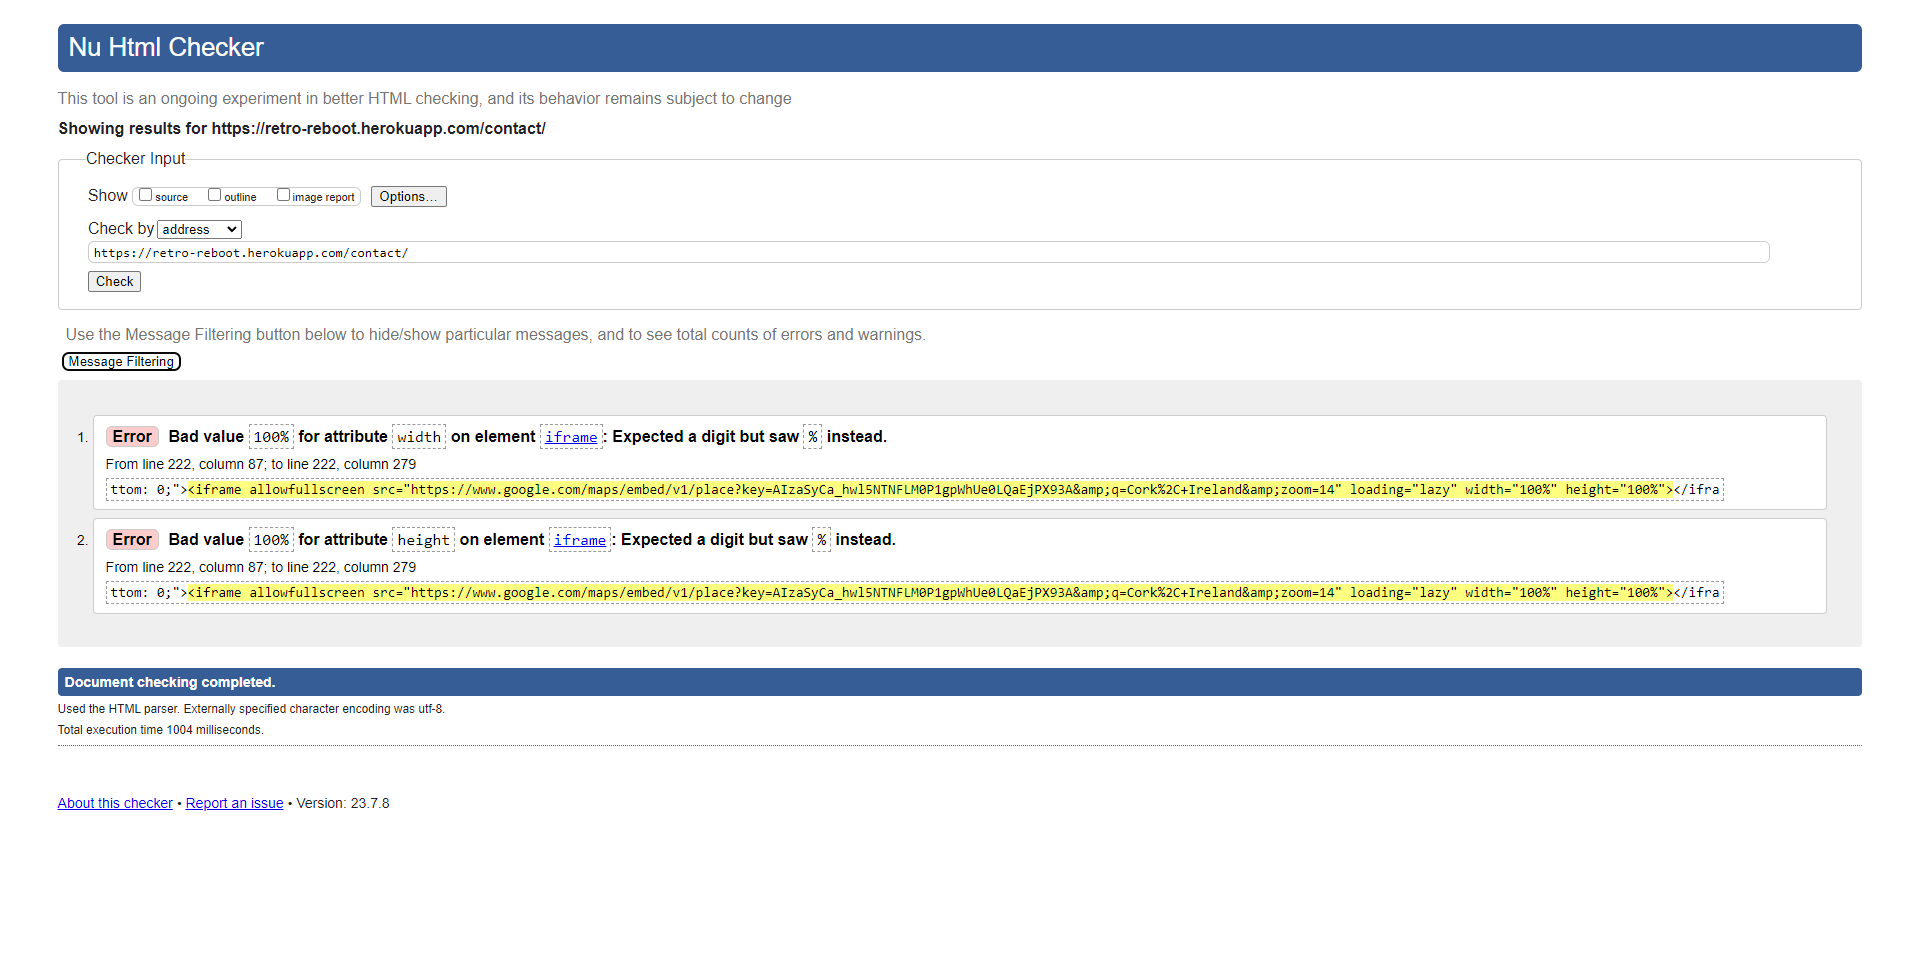
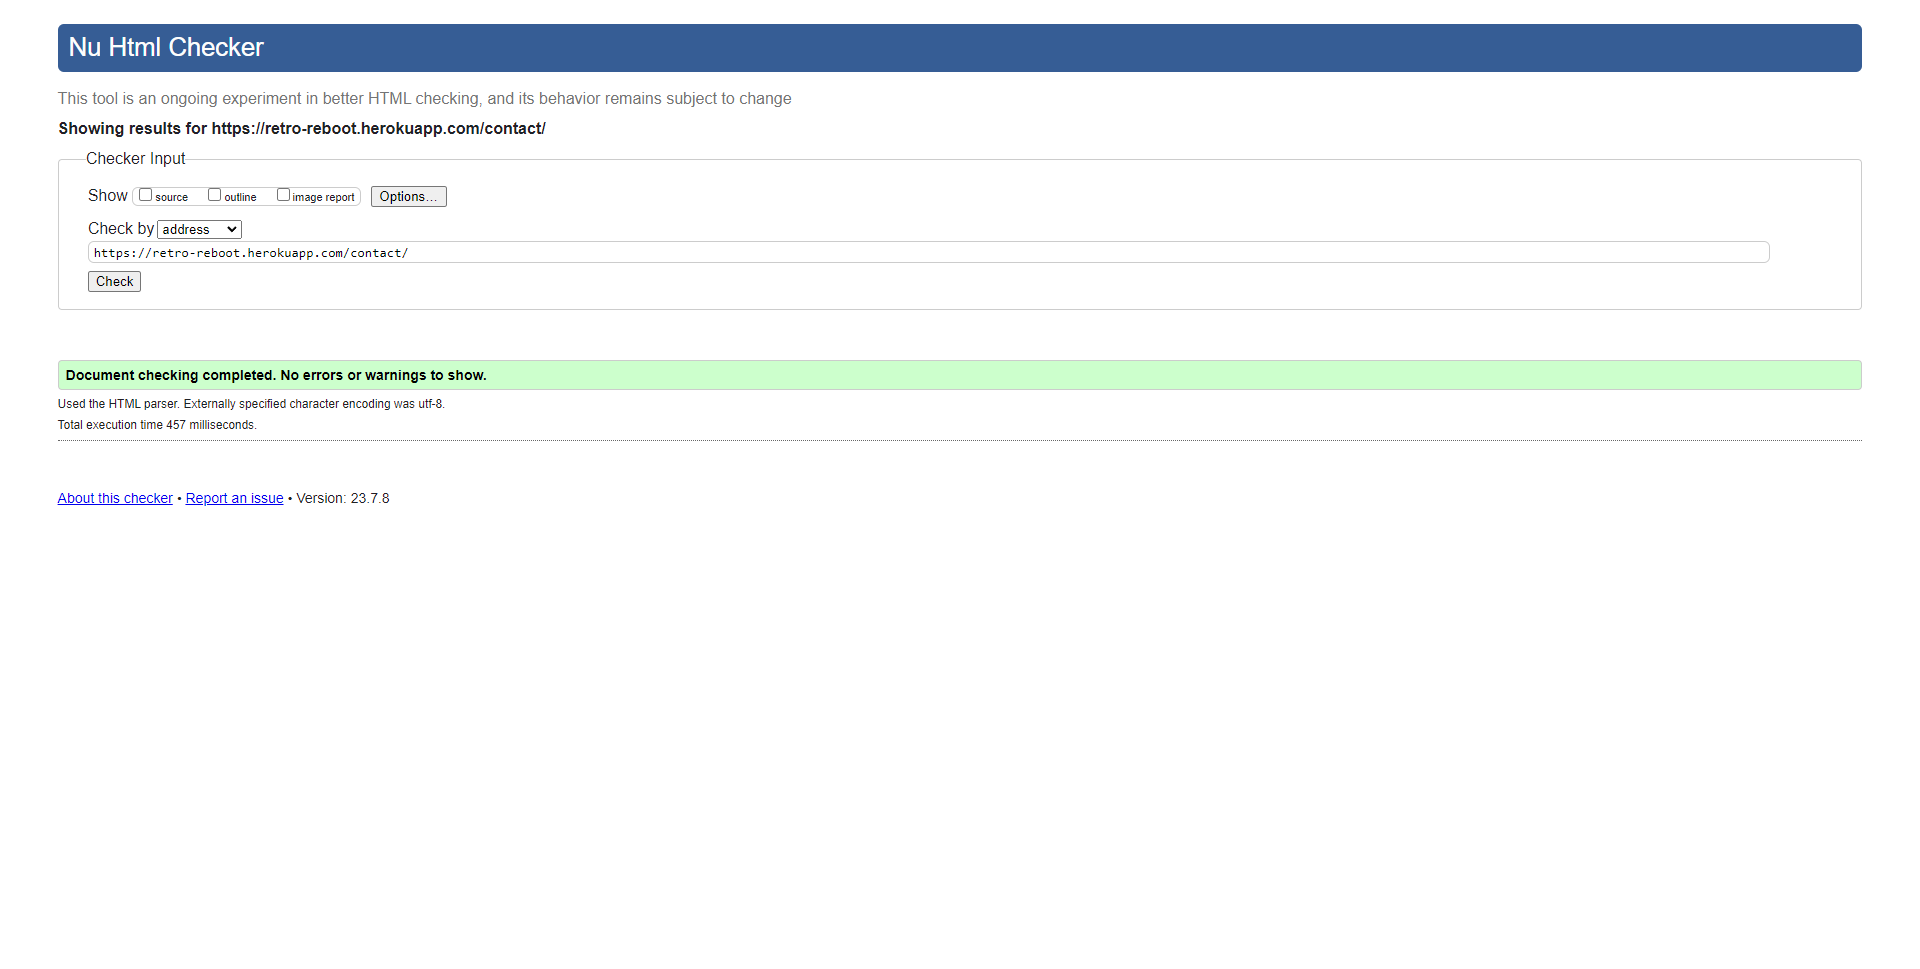
Update contact page validation

Changed region(s): [[0.0312, 0.3406, 0.9688, 0.6192], [0.0312, 0.6811, 0.9688, 0.774], [0.0312, 0.805, 0.1875, 0.8359]]

diff --git a/TESTING.md b/TESTING.md
@@ -17,7 +17,7 @@ I have used the recommended [HTML W3C Validator](https://validator.w3.org) to va
 | Home | [W3C](https://validator.w3.org/nu/?doc=https%3A%2F%2Fretro-reboot.herokuapp.com%2F) | ![screenshot](documentation/testing/html-validation-home.png) | Pass: No Errors |
 | All Products | [W3C](https://validator.w3.org/nu/?doc=https%3A%2F%2Fretro-reboot.herokuapp.com%2Fproducts%2F) | ![screenshot](documentation/testing/html-validation-all-products.png) | Pass: No Errors |
 | Individual Product | [W3C](https://validator.w3.org/nu/?doc=https%3A%2F%2Fretro-reboot.herokuapp.com%2Fproducts%2F13%2F) | ![screenshot](documentation/testing/html-validation-individual-product.png) | Pass: No Errors |
-| Contact | [W3C](https://validator.w3.org/nu/?doc=https%3A%2F%2Fretro-reboot.herokuapp.com%2Fcontact%2F) | ![screenshot](documentation/testing/html-validation-contact.png) | Error: Bad value 100% for attribute width on element iframe (Needed to display map properly) |
+| Contact | [W3C](https://validator.w3.org/nu/?doc=https%3A%2F%2Fretro-reboot.herokuapp.com%2Fcontact%2F) | ![screenshot](documentation/testing/html-validation-contact.png) | Pass: No Errors |
 | Blog | [W3C](https://validator.w3.org/nu/?doc=https%3A%2F%2Fretro-reboot.herokuapp.com%2Fblog%2F) | ![screenshot](documentation/testing/html-validation-blog.png) | Pass: No Errors |
 | Blog Post | [W3C](https://validator.w3.org/nu/?doc=https%3A%2F%2Fretro-reboot.herokuapp.com%2Fblog%2Fcaring-for-game-cartridges-essential-tips%2F) | ![screenshot](documentation/testing/html-validation-blog-post.png) | Pass: No Errors |
 | Sign Up | [W3C](https://validator.w3.org/nu/?doc=https%3A%2F%2Fretro-reboot.herokuapp.com%2Faccounts%2Fsignup%2F) | ![screenshot](documentation/testing/html-validation-signup.png) | Pass: No Errors |
